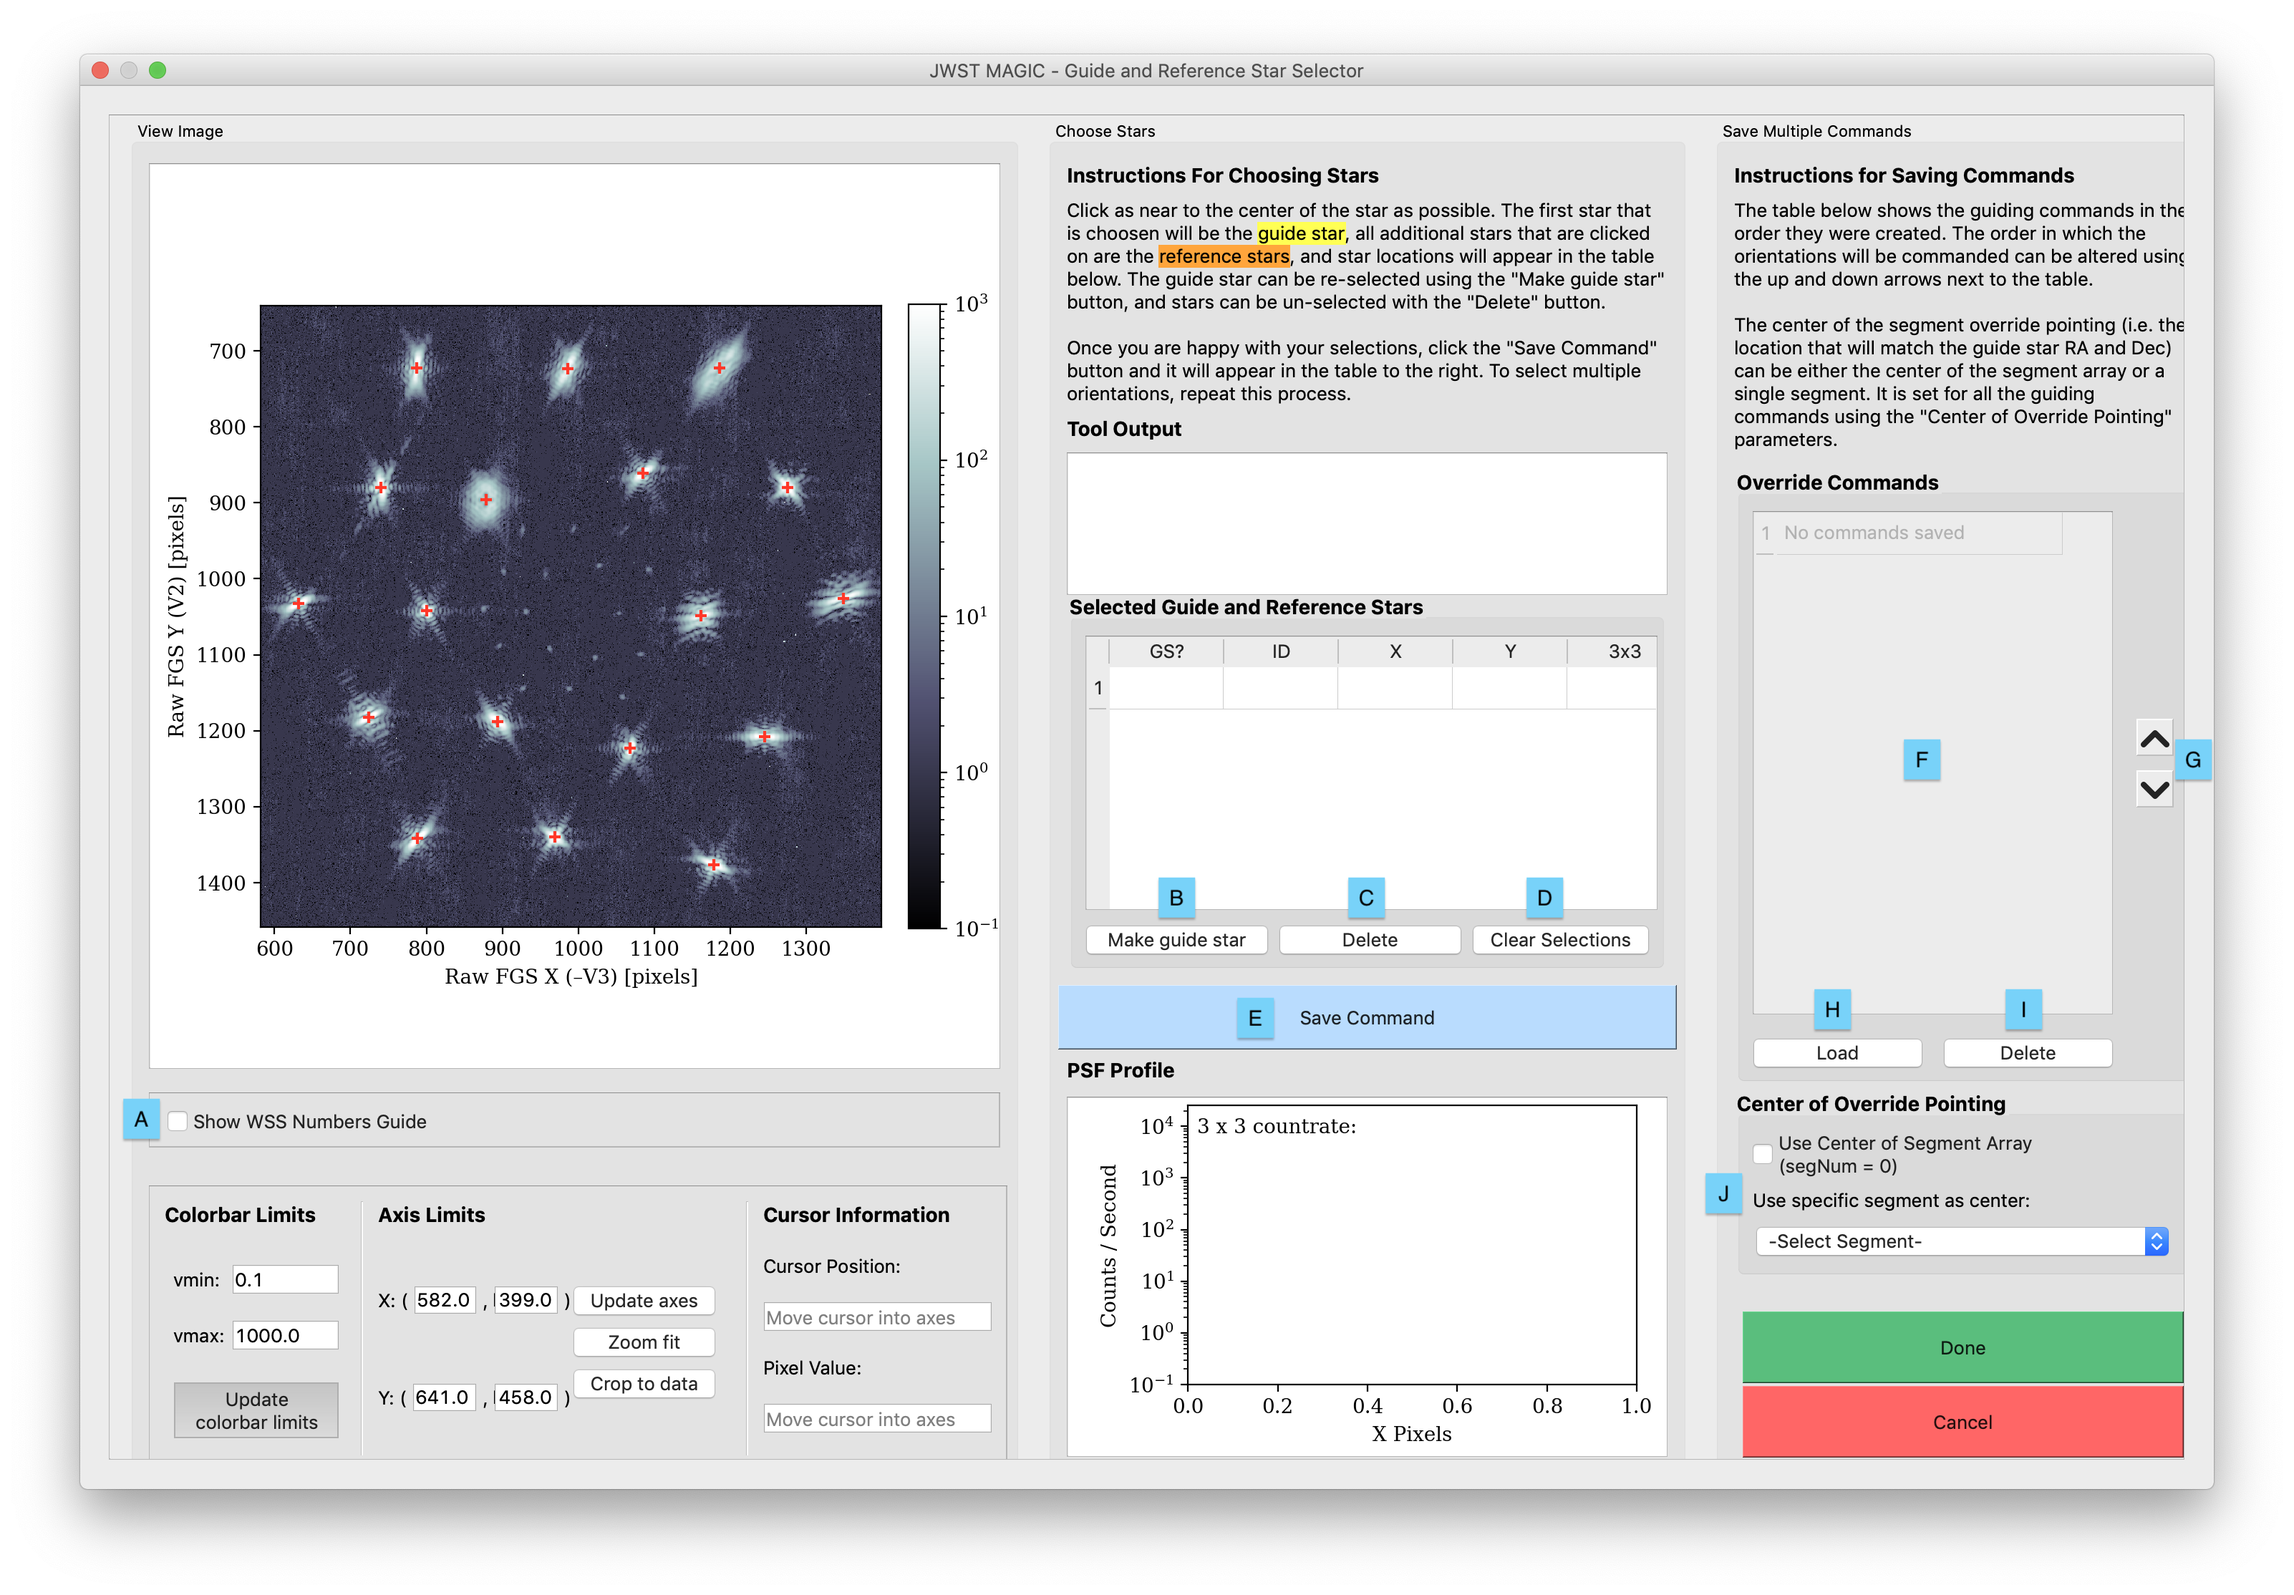
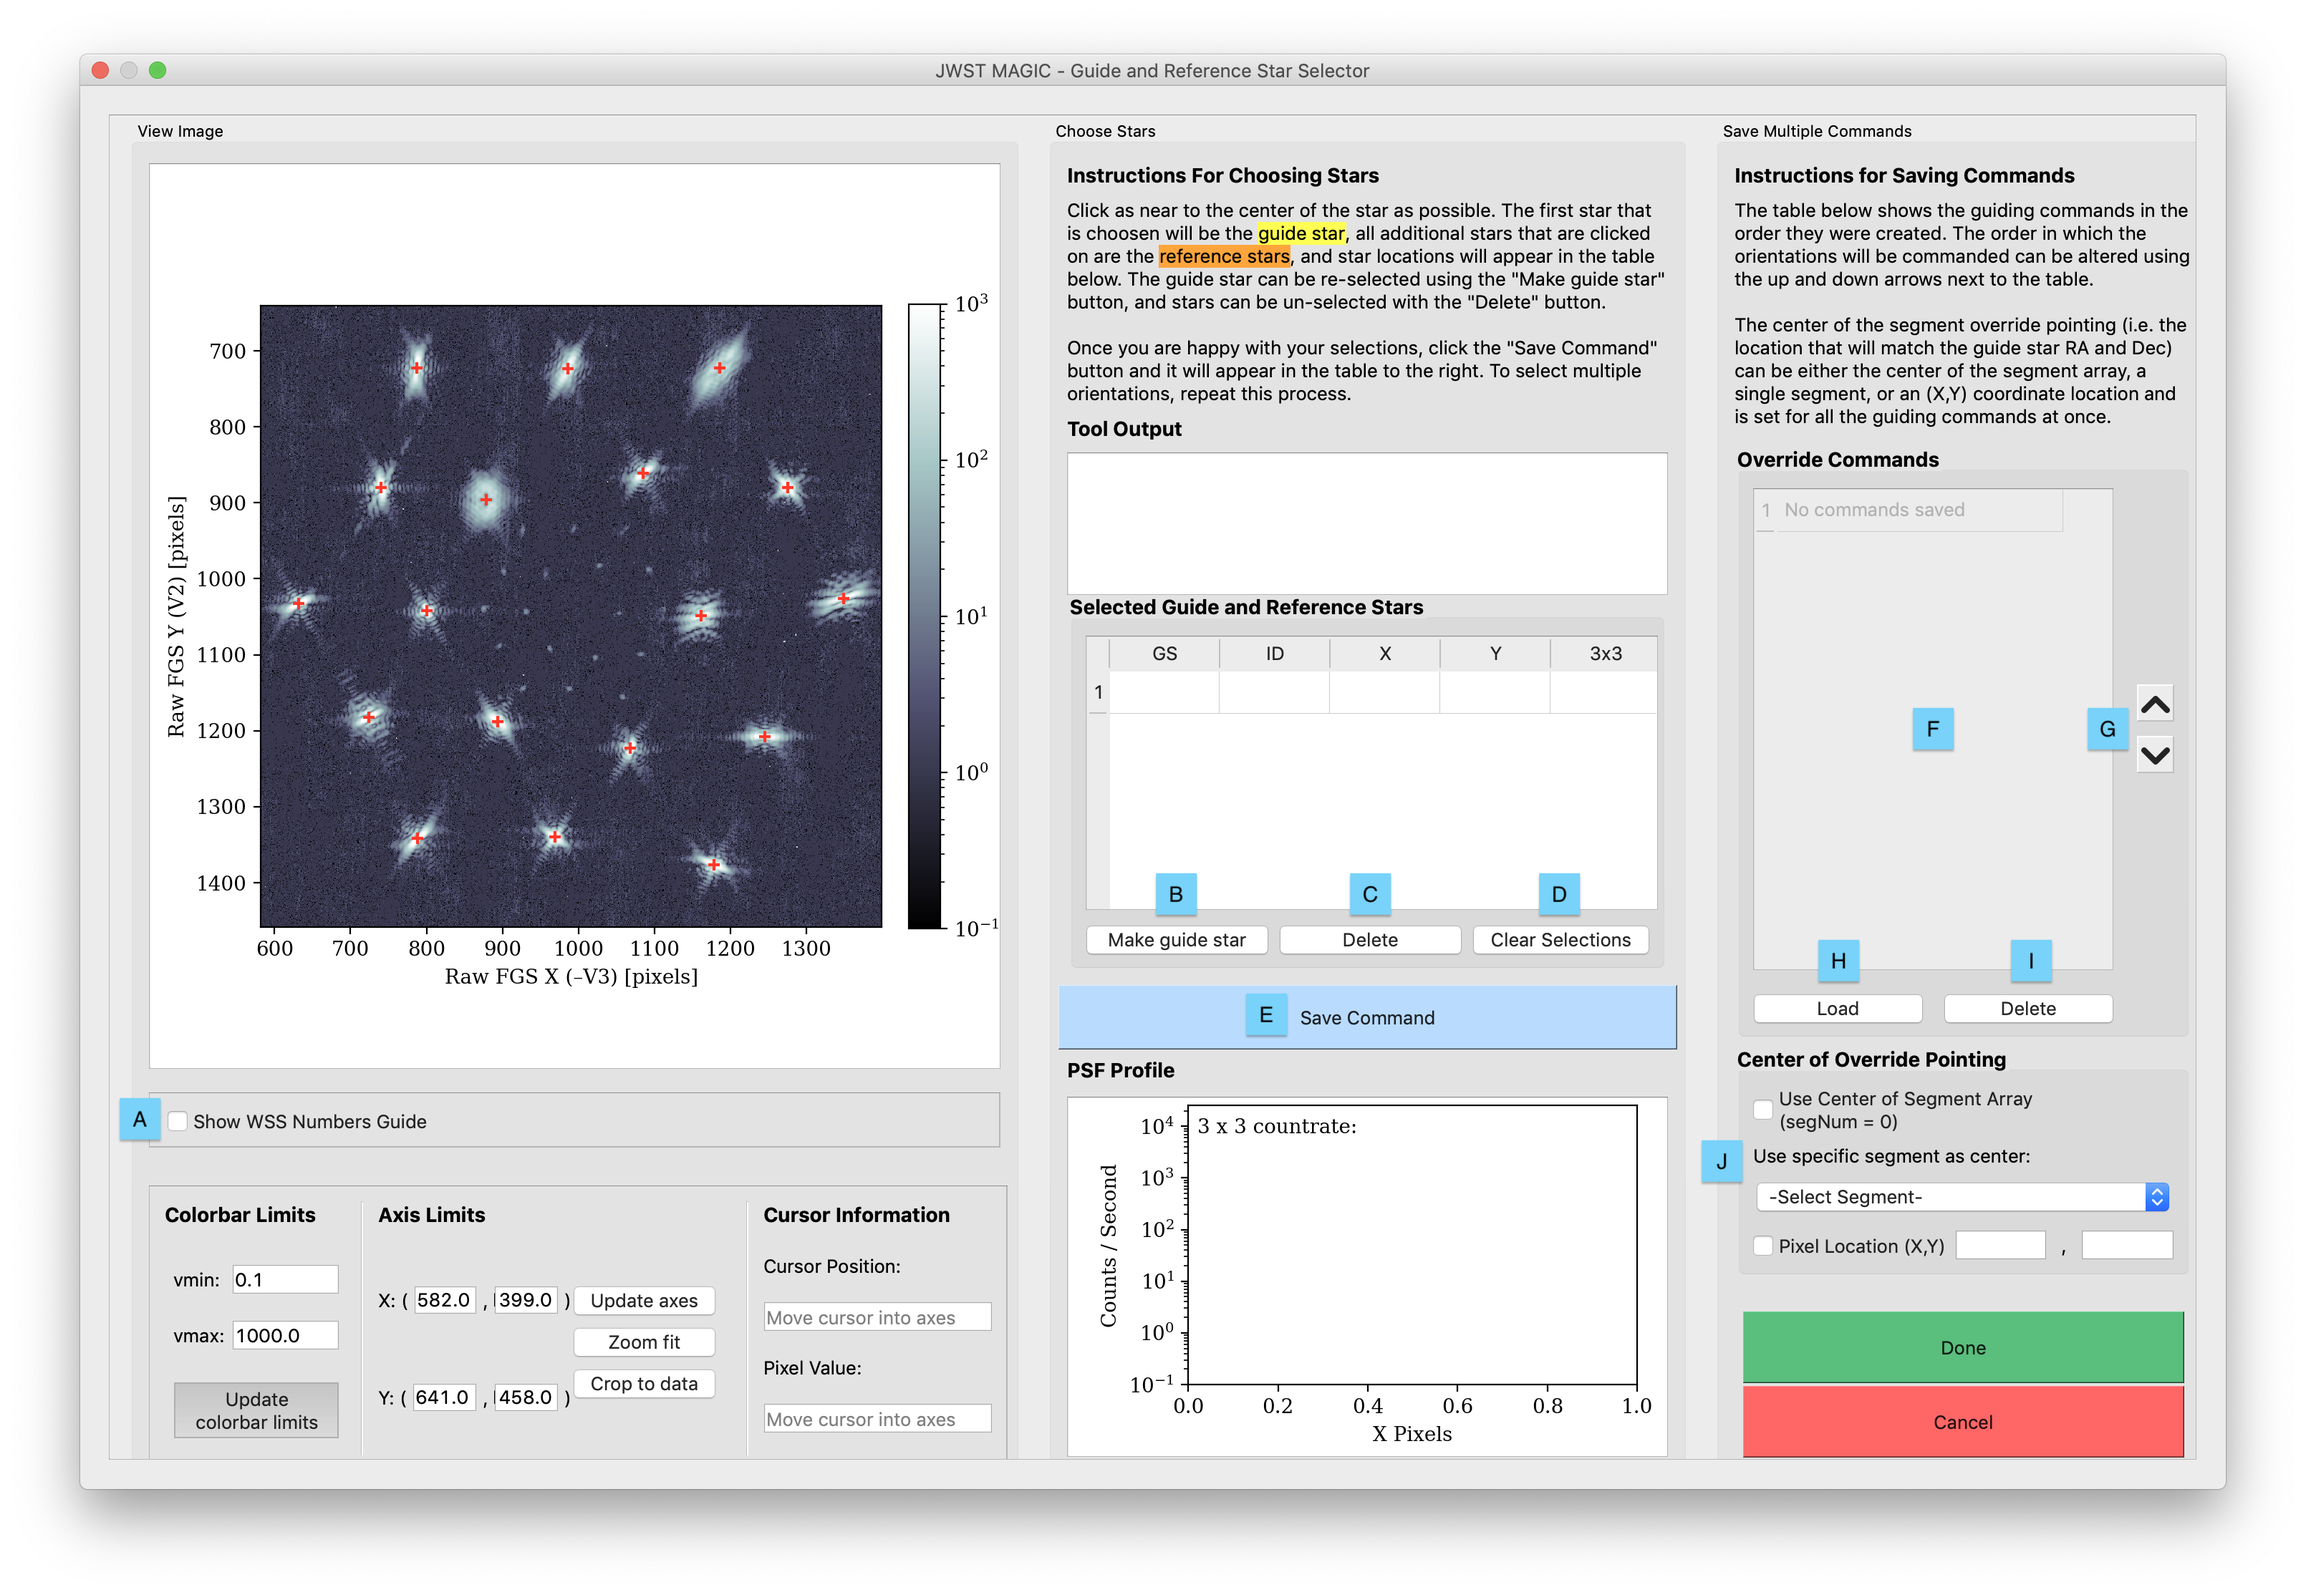
Update documentation

diff --git a/docs/magic_user_guide/iv_select_stars_and_write_files.md b/docs/magic_user_guide/iv_select_stars_and_write_files.md
@@ -55,7 +55,7 @@ One of the main features of MAGIC is that it allows the user to determine the gu
    4. When you are happy with your selections, click the **Save Command** button (*E*). You will see the IDs of the stars you selected appear in the **Override Commands** table (*F*).
    5. To add another command, repeat steps 1-4 to select guide and reference stars, and again click the **Save Command** button (*E*).
    6. To change the order of the commands, use the up and down arrow buttons (*G*). To view a saved command on the plot, click the **Load** button (*H*).  To remove a command from the list, click the **Delete** button (*I*).
-   7. Choose the center of override pointing (*J*) for all selections. This sets the origin of the ideal frame (i.e. the location of the guide star if the segments were stacked). It can either be set as the center of the segment array, using the **Use Center of Segment Array** checkbox, or the location of a specific segment using the dropdown box. You can only choose one center of pointing for each root. 
+   7. Choose the center of override pointing (*J*) for all selections. This sets the origin of the ideal frame (i.e. the location of the guide star if the segments were stacked). It can either be set as the average of the segment array, using the **Use Center of Segment Array** checkbox, the location of a specific segment using the dropdown box, or a specific location on the detector in (X,Y) detector coordinates using the **Pixel Location (X,Y)** checkbox. You can only choose one center of pointing for each root, and the information will be saved out in the center_pointing*.txt file. 
    8. When you are happy with your selections, click **Done**  
    
    The output files will be located in the specified out directory.
